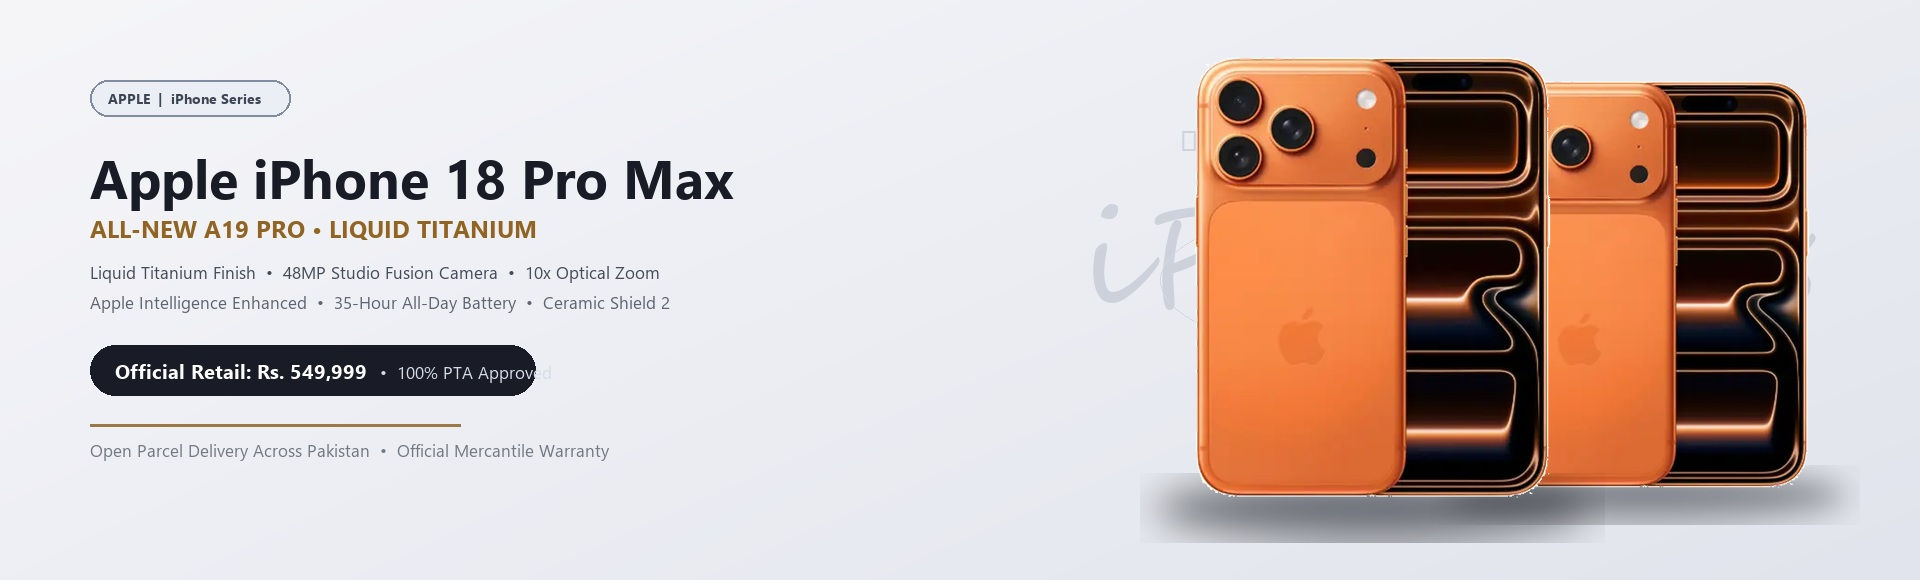
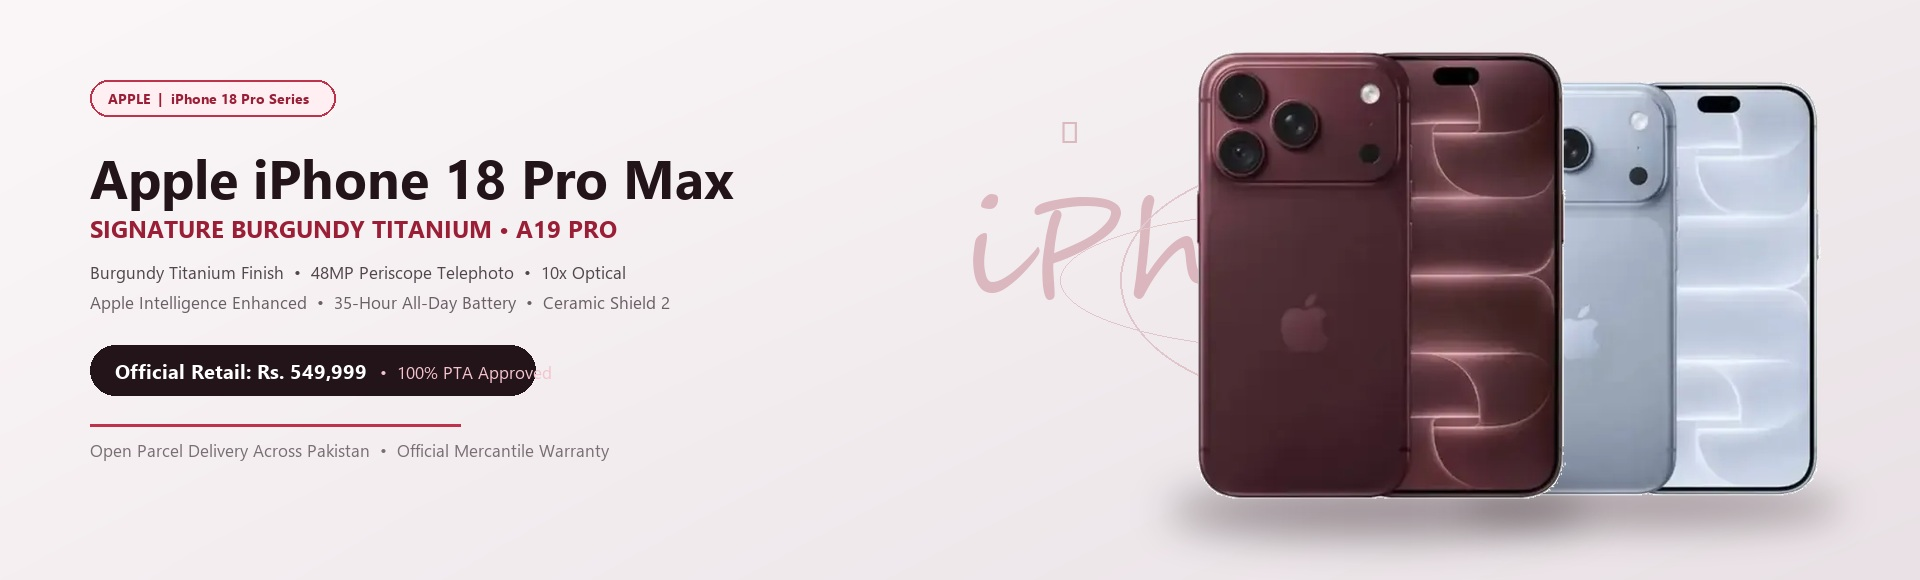
Update iPhone 18 Pro Max to official Deep Burgundy Titanium render with camera visor and Ice Blue dual showcase

diff --git a/lib/banners.ts b/lib/banners.ts
@@ -28,10 +28,10 @@ export const DEFAULT_HERO_BANNERS: HeroBannerItem[] = [
   },
   {
     "id": "apple-iphone-18-pro-max",
-    "badge": "Next-Gen Apple Flagship",
-    "badgeColor": "bg-slate-500/15 text-slate-800 border-slate-400/40",
+    "badge": "Signature Burgundy Titanium",
+    "badgeColor": "bg-rose-500/15 text-rose-900 border-rose-400/40",
     "title": "Apple iPhone 18 Pro Max",
-    "highlight": "All-New A19 Pro • Liquid Titanium",
+    "highlight": "Signature Burgundy Titanium • A19 Pro",
     "subtitle": "Apple Intelligence enhanced, triple 48MP studio fusion camera with 10x periscope optical zoom, and 35h all-day battery. 100% PTA Approved.",
     "phoneName": "Apple iPhone 18 Pro Max",
     "brand": "Apple",
@@ -42,14 +42,14 @@ export const DEFAULT_HERO_BANNERS: HeroBannerItem[] = [
     "image": "/banners/apple-iphone-18-pro-panoramic.webp",
     "link": "/product/apple-iphone-18-pro-max",
     "ctaText": "View iPhone 18 Pro",
-    "gradient": "from-[#f5f5f7] via-[#eceef2] to-[#e1e4eb]",
+    "gradient": "from-[#fbf7f8] via-[#f1ebed] to-[#e9e1e4]",
     "bannerType": "graphic",
     "aspectRatio": "16:5",
     "hideOverlay": true,
     "isActive": true,
     "order": 2,
     "createdAt": "2026-11-03T14:00:00.000Z",
-    "updatedAt": "2026-11-03T15:30:00.000Z"
+    "updatedAt": "2026-11-03T16:15:00.000Z"
   },
   {
     "id": "oppo-reno-13",
